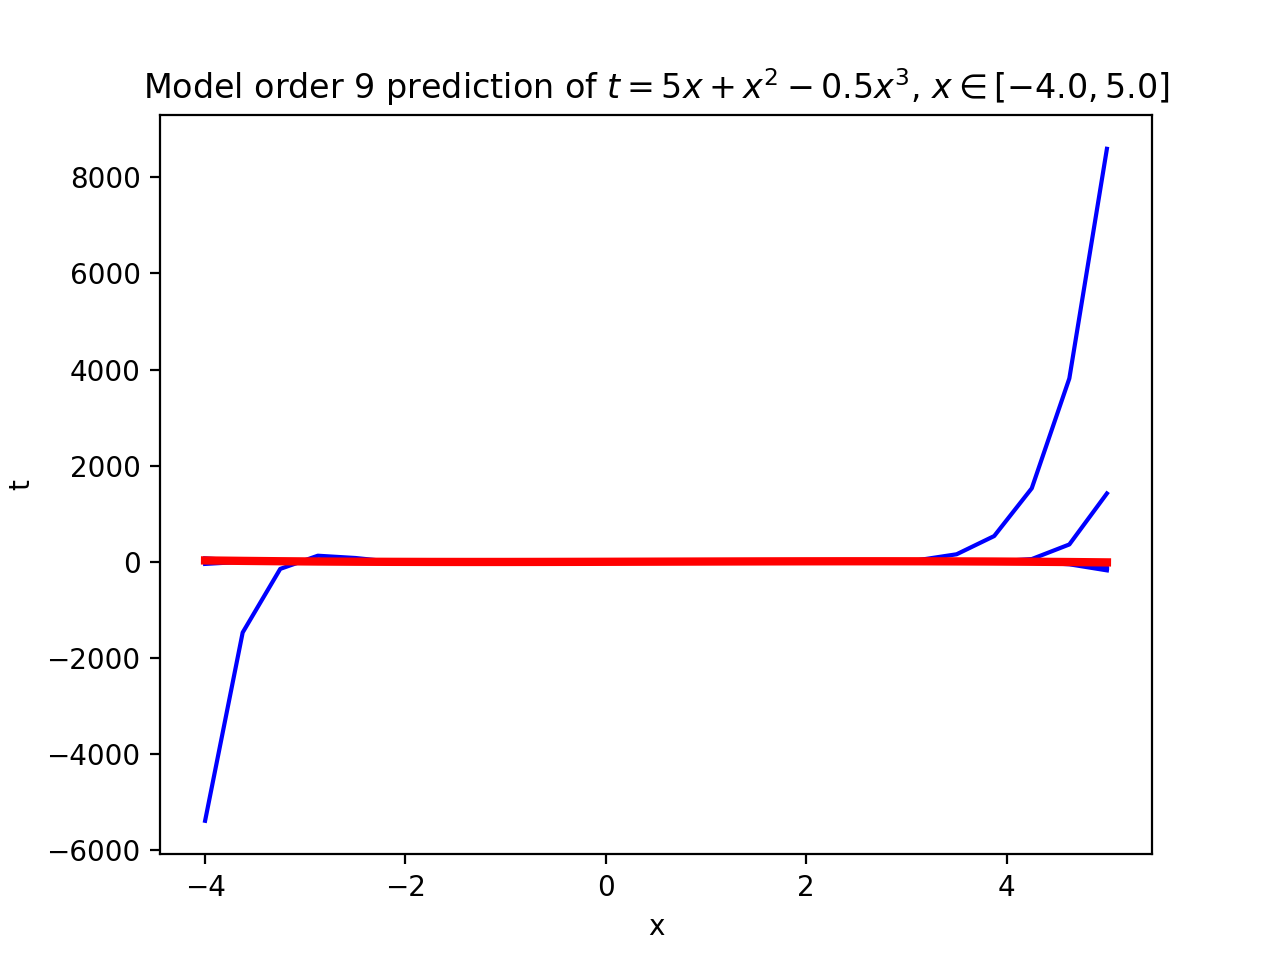
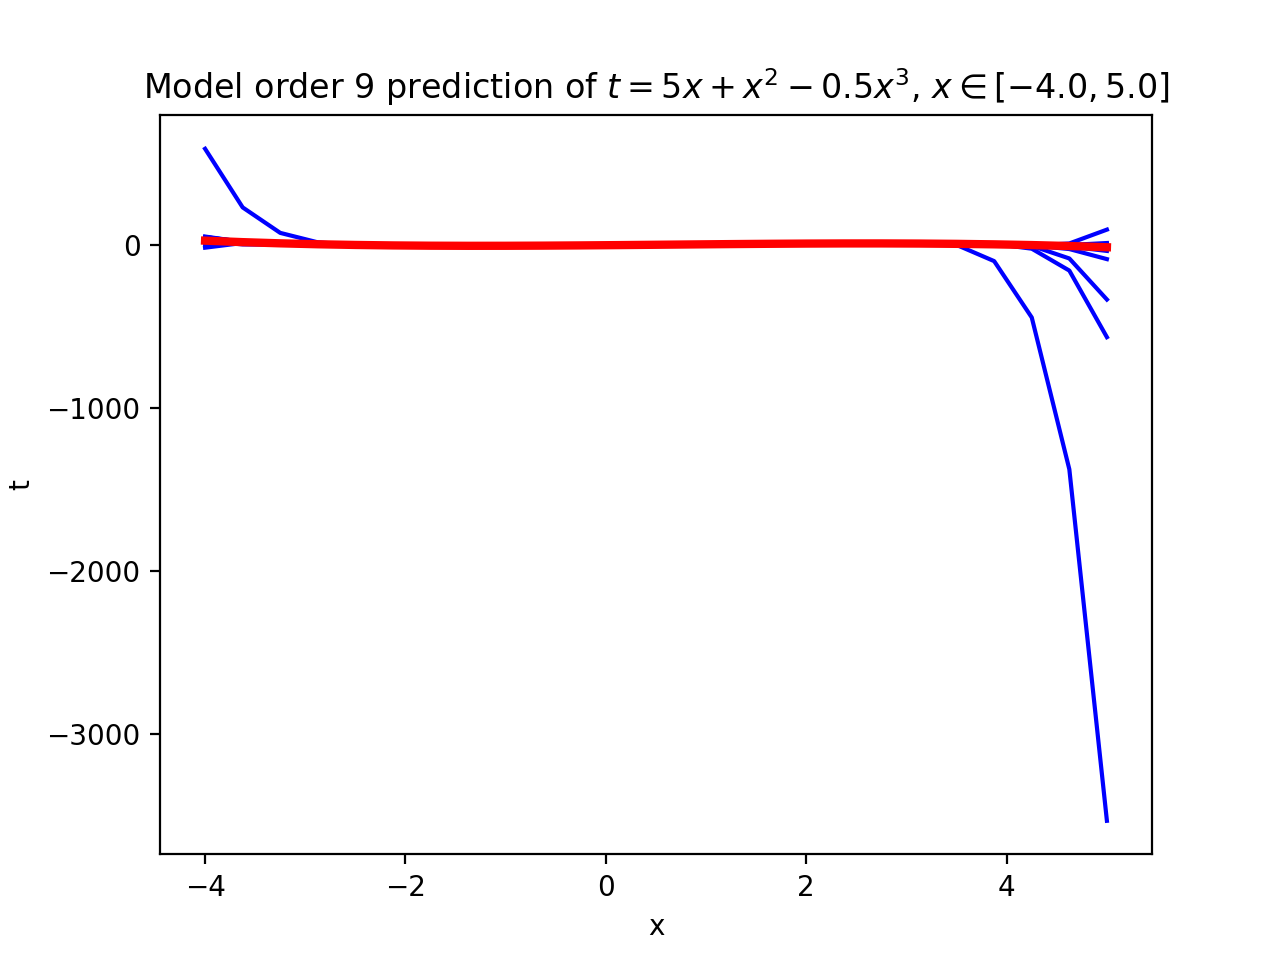
more more work

diff --git a/homework/03/code/predictive_variance.py b/homework/03/code/predictive_variance.py
@@ -7,19 +7,20 @@
 # Predictive variance example
 # Ken Youens-Clark
 
-import numpy as np
 import matplotlib.pyplot as plt
+import numpy as np
+import os
 
 # --------------------------------------------------------------------------
 # Globals: edit these as needed
 # --------------------------------------------------------------------------
 
 # set to True in order to automatically save the generated plots
-SAVE_FIGURES = False
+SAVE_FIGURES = True
 
 # change this to where you'd like the figures saved
 # (relative to your python current working directory)
-FIGURE_PATH = '.'  # '../figs/'
+FIGURE_PATH = '.'
 
 # --------------------------------------------------------------------------
 # You must complete the implementation of the following two functions
@@ -35,9 +36,20 @@ def calculate_prediction_variance(x_new, X, w, t):
     :param x_new: new observation
     :return: the predictive variance around x_new
     """
-    N = X.shape[0]
-    return 1 / N * (np.dot(t.T, t) - np.dot(np.dot(t.T, X), w))
+    s2h = sigma2_hat(X, t, w)
+    XTX_inv = np.linalg.inv(np.dot(X.T, X))
 
+    return s2h * np.dot(x_new.T, np.dot(XTX_inv, x_new))
+
+def sigma2_hat(X, t, w):
+    """
+    Calculates sigma-squared-hat from
+    :param X: Design matrix: matrix of N observations
+    :param t: vector of N target responses
+    :param w: vector of parameters
+    """
+    N = X.shape[0]
+    return (1 / N) * (np.dot(t.T, t) - np.dot(np.dot(t.T, X), w))
 
 def calculate_cov_w(X, w, t):
     """
@@ -47,9 +59,7 @@ def calculate_cov_w(X, w, t):
     :param t: vector of N target responses
     :return: the matrix covariance of w
     """
-    N = X.shape[0]
-    sigma2_hat = 1 / N * (np.dot(t.T, t) - np.dot(np.dot(t.T, X), w))
-    return sigma2_hat * np.linalg.inv(np.dot(X.T, X))
+    return sigma2_hat(X, t, w) * np.linalg.inv(np.dot(X.T, X))
 
 
 # --------------------------------------------------------------------------
@@ -106,7 +116,7 @@ plt.title('Sampled data from {0}, $x \in [{1},{2}]$'.format(
 plt.pause(.1)  # required on some systems so that rendering can happen
 
 if SAVE_FIGURES:
-    plt.savefig(FIGURE_PATH + 'data.pdf', fmt='pdf')
+    plt.savefig(os.path.join(FIGURE_PATH, 'data.png'), fmt='png')
 
 # Fit models of various orders
 orders = [1, 3, 5, 9]
@@ -166,8 +176,8 @@ for i in orders:
     plt.pause(.1)  # required on some systems so that rendering can happen
 
     if SAVE_FIGURES:
-        filename = 'error-{0}.pdf'.format(i)
-        plt.savefig(FIGURE_PATH + filename, fmt='pdf')
+        filename = 'error-{0}.png'.format(i)
+        plt.savefig(os.path.join(FIGURE_PATH, filename), fmt='png')
 
 # --------------------------------------------------------------------------
 # Part 5c -- Plot functions by sampling from cov(\hat{w})
@@ -227,7 +237,7 @@ for i in orders:
     plt.pause(.1)  # required on some systems so that rendering can happen
 
     if SAVE_FIGURES:
-        filename = 'sampled-fns-{0}.pdf'.format(i)
-        plt.savefig(FIGURE_PATH + filename, fmt='pdf')
+        filename = 'sampled-fns-{0}.png'.format(i)
+        plt.savefig(os.path.join(FIGURE_PATH, filename), fmt='png')
 
 plt.show()

diff --git a/homework/03/code/model_bias_variance.py b/homework/03/code/model_bias_variance.py
@@ -67,6 +67,8 @@ def main():
         plt.title('Model order {} prediction of {}, $x \in [{},{}]$'.format(
             i, true_function.__doc__, xmin, xmax))
         plt.pause(.1)  # required on some systems so that rendering can happen
+        outfile = 'model_bias-{}.png'.format(i)
+        plt.savefig(outfile, format='png')
         plt.show()
 
 
